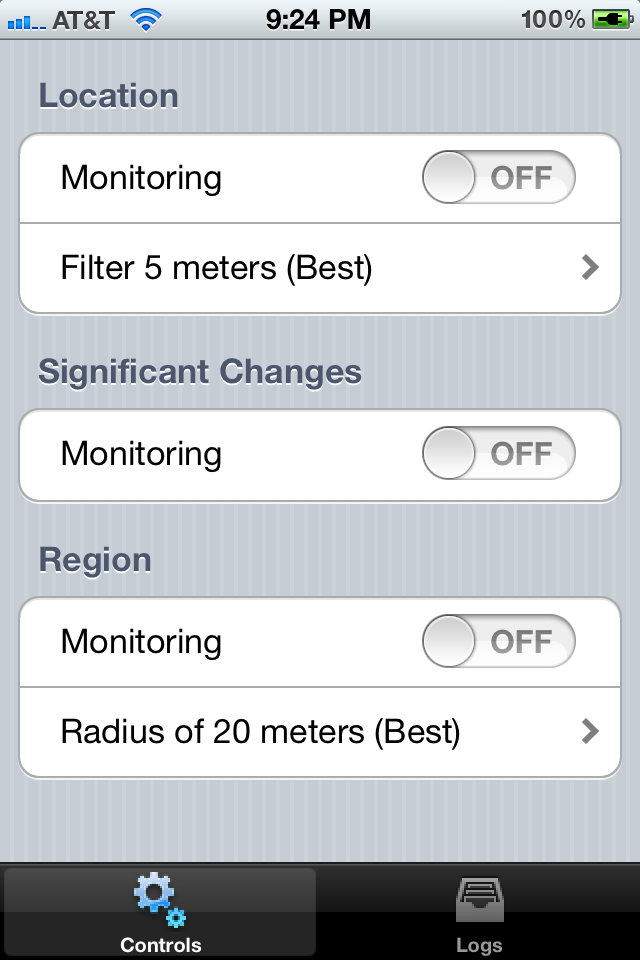
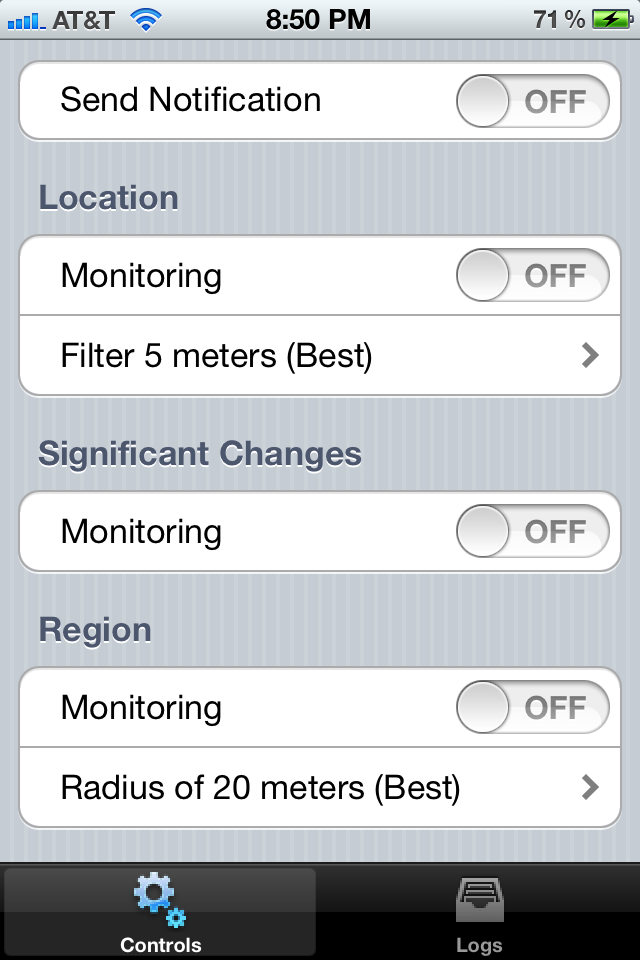
Add control of send notifications

diff --git a/LocationTester/ControlViewController.m b/LocationTester/ControlViewController.m
@@ -15,6 +15,7 @@
     OptionGroup * regionAccuracyOptions;
 }
 
+@synthesize notificationSwitch = _notificationSwitch;
 @synthesize locationSwitch = _locationSwitch;
 @synthesize locationOptionsLabel = _locationOptionsLabel;
 @synthesize locationLabel = _locationLabel;
@@ -79,13 +80,16 @@
     }
     [self applyRegionOptions];
     [self applyLocationOptions];
-    
-    
+
+//    [self.notificationCell setSelectionStyle:UITableViewCellSelectionStyleNone];
+//    [self.notificationCell setUserInteractionEnabled:NO];
     [super viewDidLoad];
 }
 
+
 - (void)viewDidUnload
 {
+    [self setNotificationSwitch:nil];
     [super viewDidUnload];
     locationDistanceOptions = nil;
     locationAccuracyOptions = nil;
@@ -115,6 +119,25 @@
         [ctrl setFirstOptions:regionRadiusOptions];
         [ctrl setSecondOptions:regionAccuracyOptions];
     }
+}
+
+
+
+
+
+- (void)tableView:(UITableView *)tableView didSelectRowAtIndexPath:(NSIndexPath *)indexPath
+{
+	if (indexPath.section == 0) {
+        DNSInfo(@"select section 0");
+    }
+}
+
+- (void)tableView:(UITableView *)tableView didDeselectRowAtIndexPath:(NSIndexPath *)indexPath
+{
+	if (indexPath.section == 0) {
+        DNSInfo(@"deselect section 0");
+    }
+    
 }
 
 
@@ -190,6 +213,12 @@
     }
 }
 
+- (IBAction)notificationSwitched
+{
+    [self.significantChangeTracker setSendNotification:self.notificationSwitch.isOn];
+    [self.regionTracker setSendNotification:self.notificationSwitch.isOn];
+}
+
 - (void)regionControls:(BOOL)enabled
 {
     if (enabled) {
@@ -225,6 +254,7 @@
             [self applyRegionOptions];
         }
     }
+    [self becomeFirstResponder];
     [self dismissViewControllerAnimated:YES completion:nil];
 }
 

diff --git a/LocationTester/RegionTracker.m b/LocationTester/RegionTracker.m
@@ -66,14 +66,14 @@
 
 - (void)locationManager:(CLLocationManager *)manager didEnterRegion:(CLRegion *)region
 {
-    [self reportLocation:[manager location] withMessage:@"Enter region" andNotify:YES];
+    [self reportLocation:[manager location] withMessage:@"Enter region"];
     [locationManager startMonitoringForRegion:region desiredAccuracy:kCLLocationAccuracyBest];
     
 }
 
 - (void)locationManager:(CLLocationManager *)manager didExitRegion:(CLRegion *)region
 {
-    [self reportLocation:[manager location] withMessage:@"Exit region" andNotify:YES];
+    [self reportLocation:[manager location] withMessage:@"Exit region"];
     CLRegion *newRegion = [[CLRegion alloc] initCircularRegionWithCenter:[[manager location] coordinate] radius:radius.value identifier:REGION_ID];
     [locationManager startMonitoringForRegion:newRegion desiredAccuracy:radius.value];
     

diff --git a/LocationTester/Tracker.m b/LocationTester/Tracker.m
@@ -10,6 +10,8 @@
 
 @implementation Tracker
 
+@synthesize sendNotification = _sendNotification;
+
 - (id)init {
     self = [super init];
     if (self) {
@@ -38,11 +40,6 @@
 
 - (void) reportLocation:(CLLocation *)location withMessage:(NSString *)message
 {
-    [self reportLocation:location withMessage:message andNotify:NO];
-}
-
-- (void) reportLocation:(CLLocation *)location withMessage:(NSString *)message andNotify:(BOOL)notify
-{
     NSDateFormatter *dateFormat = [[NSDateFormatter alloc] init];
     [dateFormat setDateFormat:@"hh:mmaa"];
 
@@ -61,7 +58,7 @@
     }
     [self log:msg];
 
-    if (notify) {
+    if (self.sendNotification) {
         UILocalNotification *notification = [[UILocalNotification alloc] init];
         if (notification) {
             notification.alertBody = msg;

diff --git a/LocationTester/ControlViewController.h b/LocationTester/ControlViewController.h
@@ -15,6 +15,7 @@
 
 @interface ControlViewController : UITableViewController<TrackerAvailabilityDelegate, OptionsViewControllerDelegate>
 
+@property (strong, nonatomic) IBOutlet UISwitch *notificationSwitch;
 @property (nonatomic, strong) IBOutlet UISwitch *locationSwitch;
 @property (nonatomic, strong) IBOutlet UILabel  *locationOptionsLabel;
 @property (nonatomic, strong) IBOutlet UILabel  *locationLabel;
@@ -31,6 +32,7 @@
 - (IBAction)locationSwitched;
 - (IBAction)significantChangeSwitched;
 - (IBAction)regionSwitched;
+- (IBAction)notificationSwitched;
 
 - (void)applyRegionOptions;
 - (void)applyLocationOptions;

diff --git a/LocationTester/SignificantChangeTracker.m b/LocationTester/SignificantChangeTracker.m
@@ -34,7 +34,7 @@
     NSDate* eventDate = newLocation.timestamp;
     NSTimeInterval howRecent = [eventDate timeIntervalSinceNow];
     if (abs(howRecent) < 15.0) {
-        [self reportLocation:newLocation withMessage:@"Significant change" andNotify:YES];
+        [self reportLocation:newLocation withMessage:@"Significant change"];
     } else {
         DNSInfo(@"Ignore old significant location: %@", [newLocation description]);
     }

diff --git a/LocationTester/Tracker.h b/LocationTester/Tracker.h
@@ -12,8 +12,9 @@
     CLLocationManager * locationManager;  
 }
 
+@property (nonatomic) BOOL sendNotification;
+
 - (void) log:(NSString *)message;
 - (void) reportLocation:(CLLocation *)location withMessage:(NSString *)message;
-- (void) reportLocation:(CLLocation *)location withMessage:(NSString *)message andNotify:(BOOL)notify;
 
 @end
